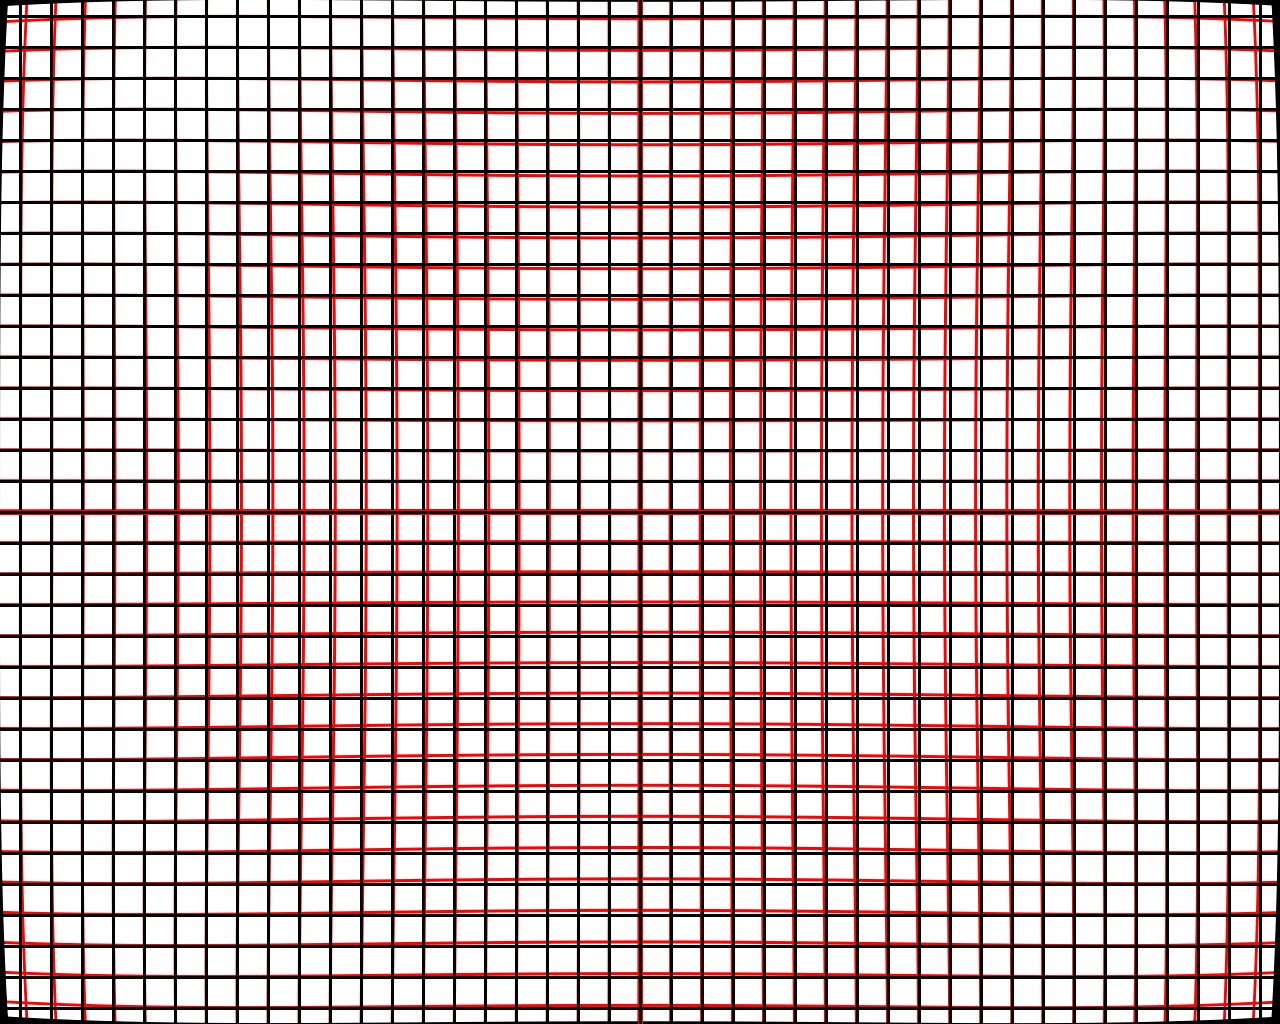
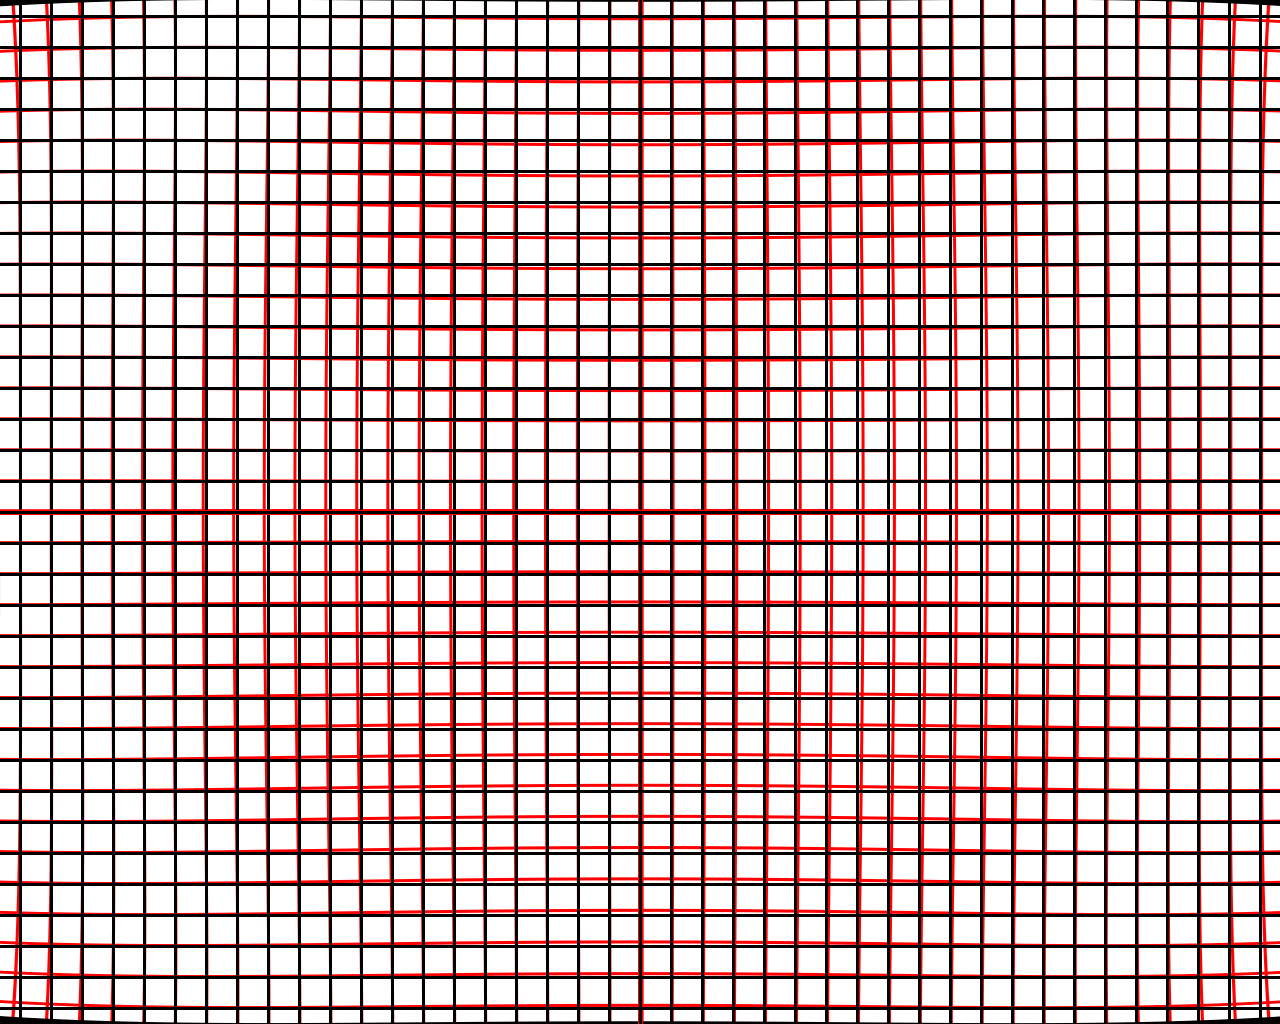
Correct the distorted image algorithm

diff --git a/src/camera_caliberation_pkg/src/show_distorted_grid_pattern.cpp b/src/camera_caliberation_pkg/src/show_distorted_grid_pattern.cpp
@@ -61,11 +61,32 @@ int main(int argc, char *argv[])
     cv::Mat distortedGridPattern(image_height, image_width, CV_8UC3, cv::Scalar(255, 255, 255));
 
     cv::Mat map1, map2;
+    cv::Mat newMap1, newMap2;
+
     cv::Mat newCameraMatrix = cv::getOptimalNewCameraMatrix(cameraMatrix, disCoffes, image_size, 1.0);
-    cv::initUndistortRectifyMap(cameraMatrix, disCoffes, cv::Mat(), newCameraMatrix, image_size, CV_16SC2, map1, map2);
-    cv::remap(gridPattern, distortedGridPattern, map1, map2, cv::INTER_LINEAR);
-
-
+    cv::initUndistortRectifyMap(cameraMatrix, disCoffes, cv::Mat(), newCameraMatrix, image_size, CV_32FC2, map1, map2);
+    newMap1.create(map1.size(), CV_32FC2);
+    newMap2.create(map2.size(), CV_8U);
+    for(int y = 0; y < map1.rows; y++)
+    {
+        for(int x = 0; x < map1.cols; x++)
+        {
+            newMap1.at<cv::Vec2f>(y, x) = static_cast<cv::Vec2f>(cv::Vec2f(2.0 * x, 2.0 * map1.at<cv::Vec2f>(y, x)[1]) - map1.at<cv::Vec2f>(y, x));
+            // std::cout << "newMap1.at<cv::Vec2i>(" << y << ", " << x << ") = " << map1.at<cv::Vec2f>(y, x) << "|| map1.at<cv::Vec2s> = " << map1.at<cv::Vec2f>(y, x) << std::endl;
+        }
+    }
+    for(int y = 0; y < map2.rows; y++)
+    {
+        for(int x = 0; x < map2.cols; x++)
+        {
+            newMap2.at<uchar>(y, x) = static_cast<uchar>(y + y - map2.at<uchar>(y, x));
+            printf("newMap1.at<uchar>(%d, %d) = %d || map1.at<uchar> = %d\n", y, x, newMap2.at<uchar>(y, x), map2.at<uchar>(y, x));
+        }
+    }
+    std::cout << map1.type() << std::endl;
+    std::cout << map2.type() << std::endl;
+    cv::remap(gridPattern, distortedGridPattern, newMap1, newMap2, cv::INTER_LINEAR);
+    
 
     gridPattern = cv::Mat(image_height, image_width, CV_8UC3, cv::Scalar(255, 255, 255));
 
@@ -116,7 +137,6 @@ int main(int argc, char *argv[])
     }
 
     
-    std::cout << map1.size << std::endl;
     cv::Mat outputImage1 = distortedGridPattern;
     cv::imshow("Distorted Grid Pattern1", outputImage1);
     cv::imshow("Distorted Grid Pattern2", outputImage2);
